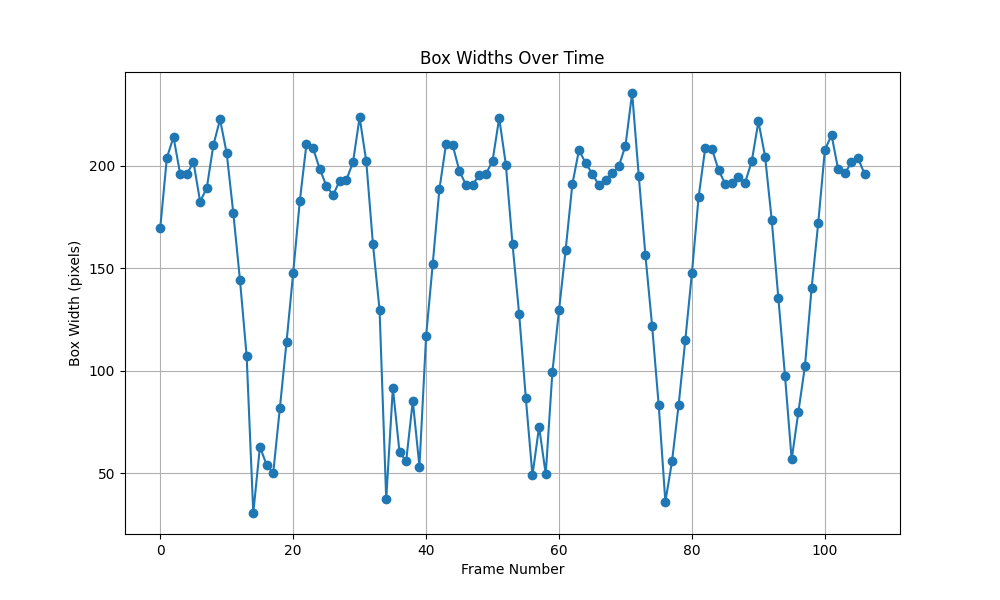
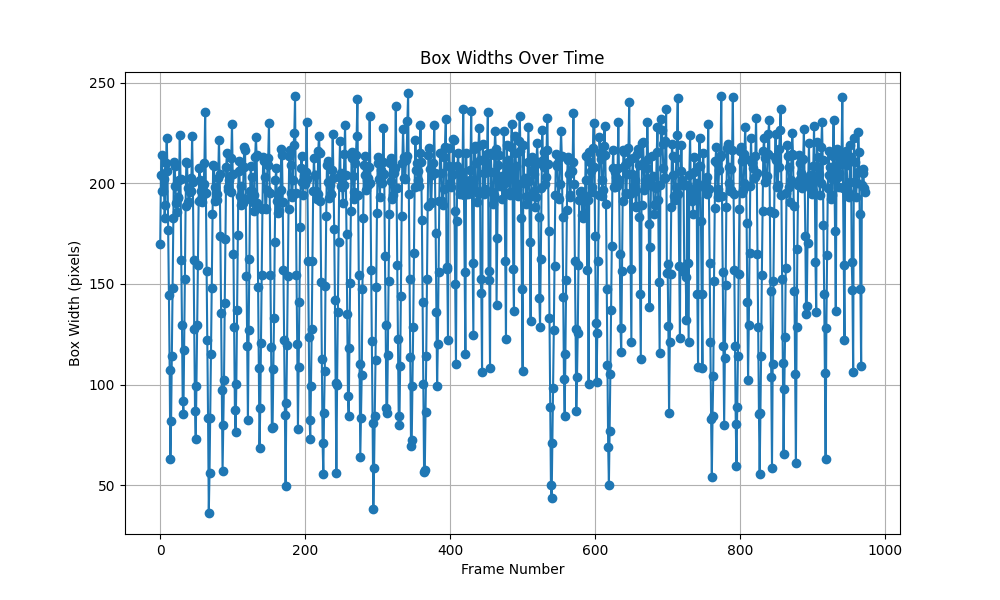
mm

diff --git a/inference.py b/inference.py
@@ -113,7 +113,8 @@ if __name__ == '__main__':
                     cv2.putText(annotated_frame, 'ID: ' + str(len(bottles)), (int(x_center), int(y_center)), cv2.FONT_HERSHEY_SIMPLEX, 1, (0, 0, 255), 2)
                     # first_bottle_widths.append(float(box_width))k
                 
-                first_bottle_widths.append(float(boxes[0][2]))
+                first_box_x, first_box_y, first_box_width, first_box_height = boxes[0]
+                first_bottle_widths.append(float(first_box_width))
             
                 last_widths = first_bottle_widths[-LAST_WIDTH_COUNT:]
                 print("Last two box widths:", last_widths)
@@ -128,7 +129,7 @@ if __name__ == '__main__':
                             print("Bottle is entering.")
                             cv2.putText(annotated_frame, 'New bottle entering', (50, 50), cv2.FONT_HERSHEY_SIMPLEX, 1, (255, 255, 255), 2)
                             bottle_was_entering = True
-                            register_bottle()
+                            register_bottle(first_box_x, first_box_y)
                     else:
                         bottle_was_entering = False
                 
@@ -154,7 +155,7 @@ if __name__ == '__main__':
     plt.xlabel('Frame Number')
     plt.ylabel('Box Width (pixels)')
     plt.grid(True)
-    # plt.savefig('box_widths_over_time.png')
+    plt.savefig('box_widths_over_time.png')
     # plt.show()
         
     cap.release()
